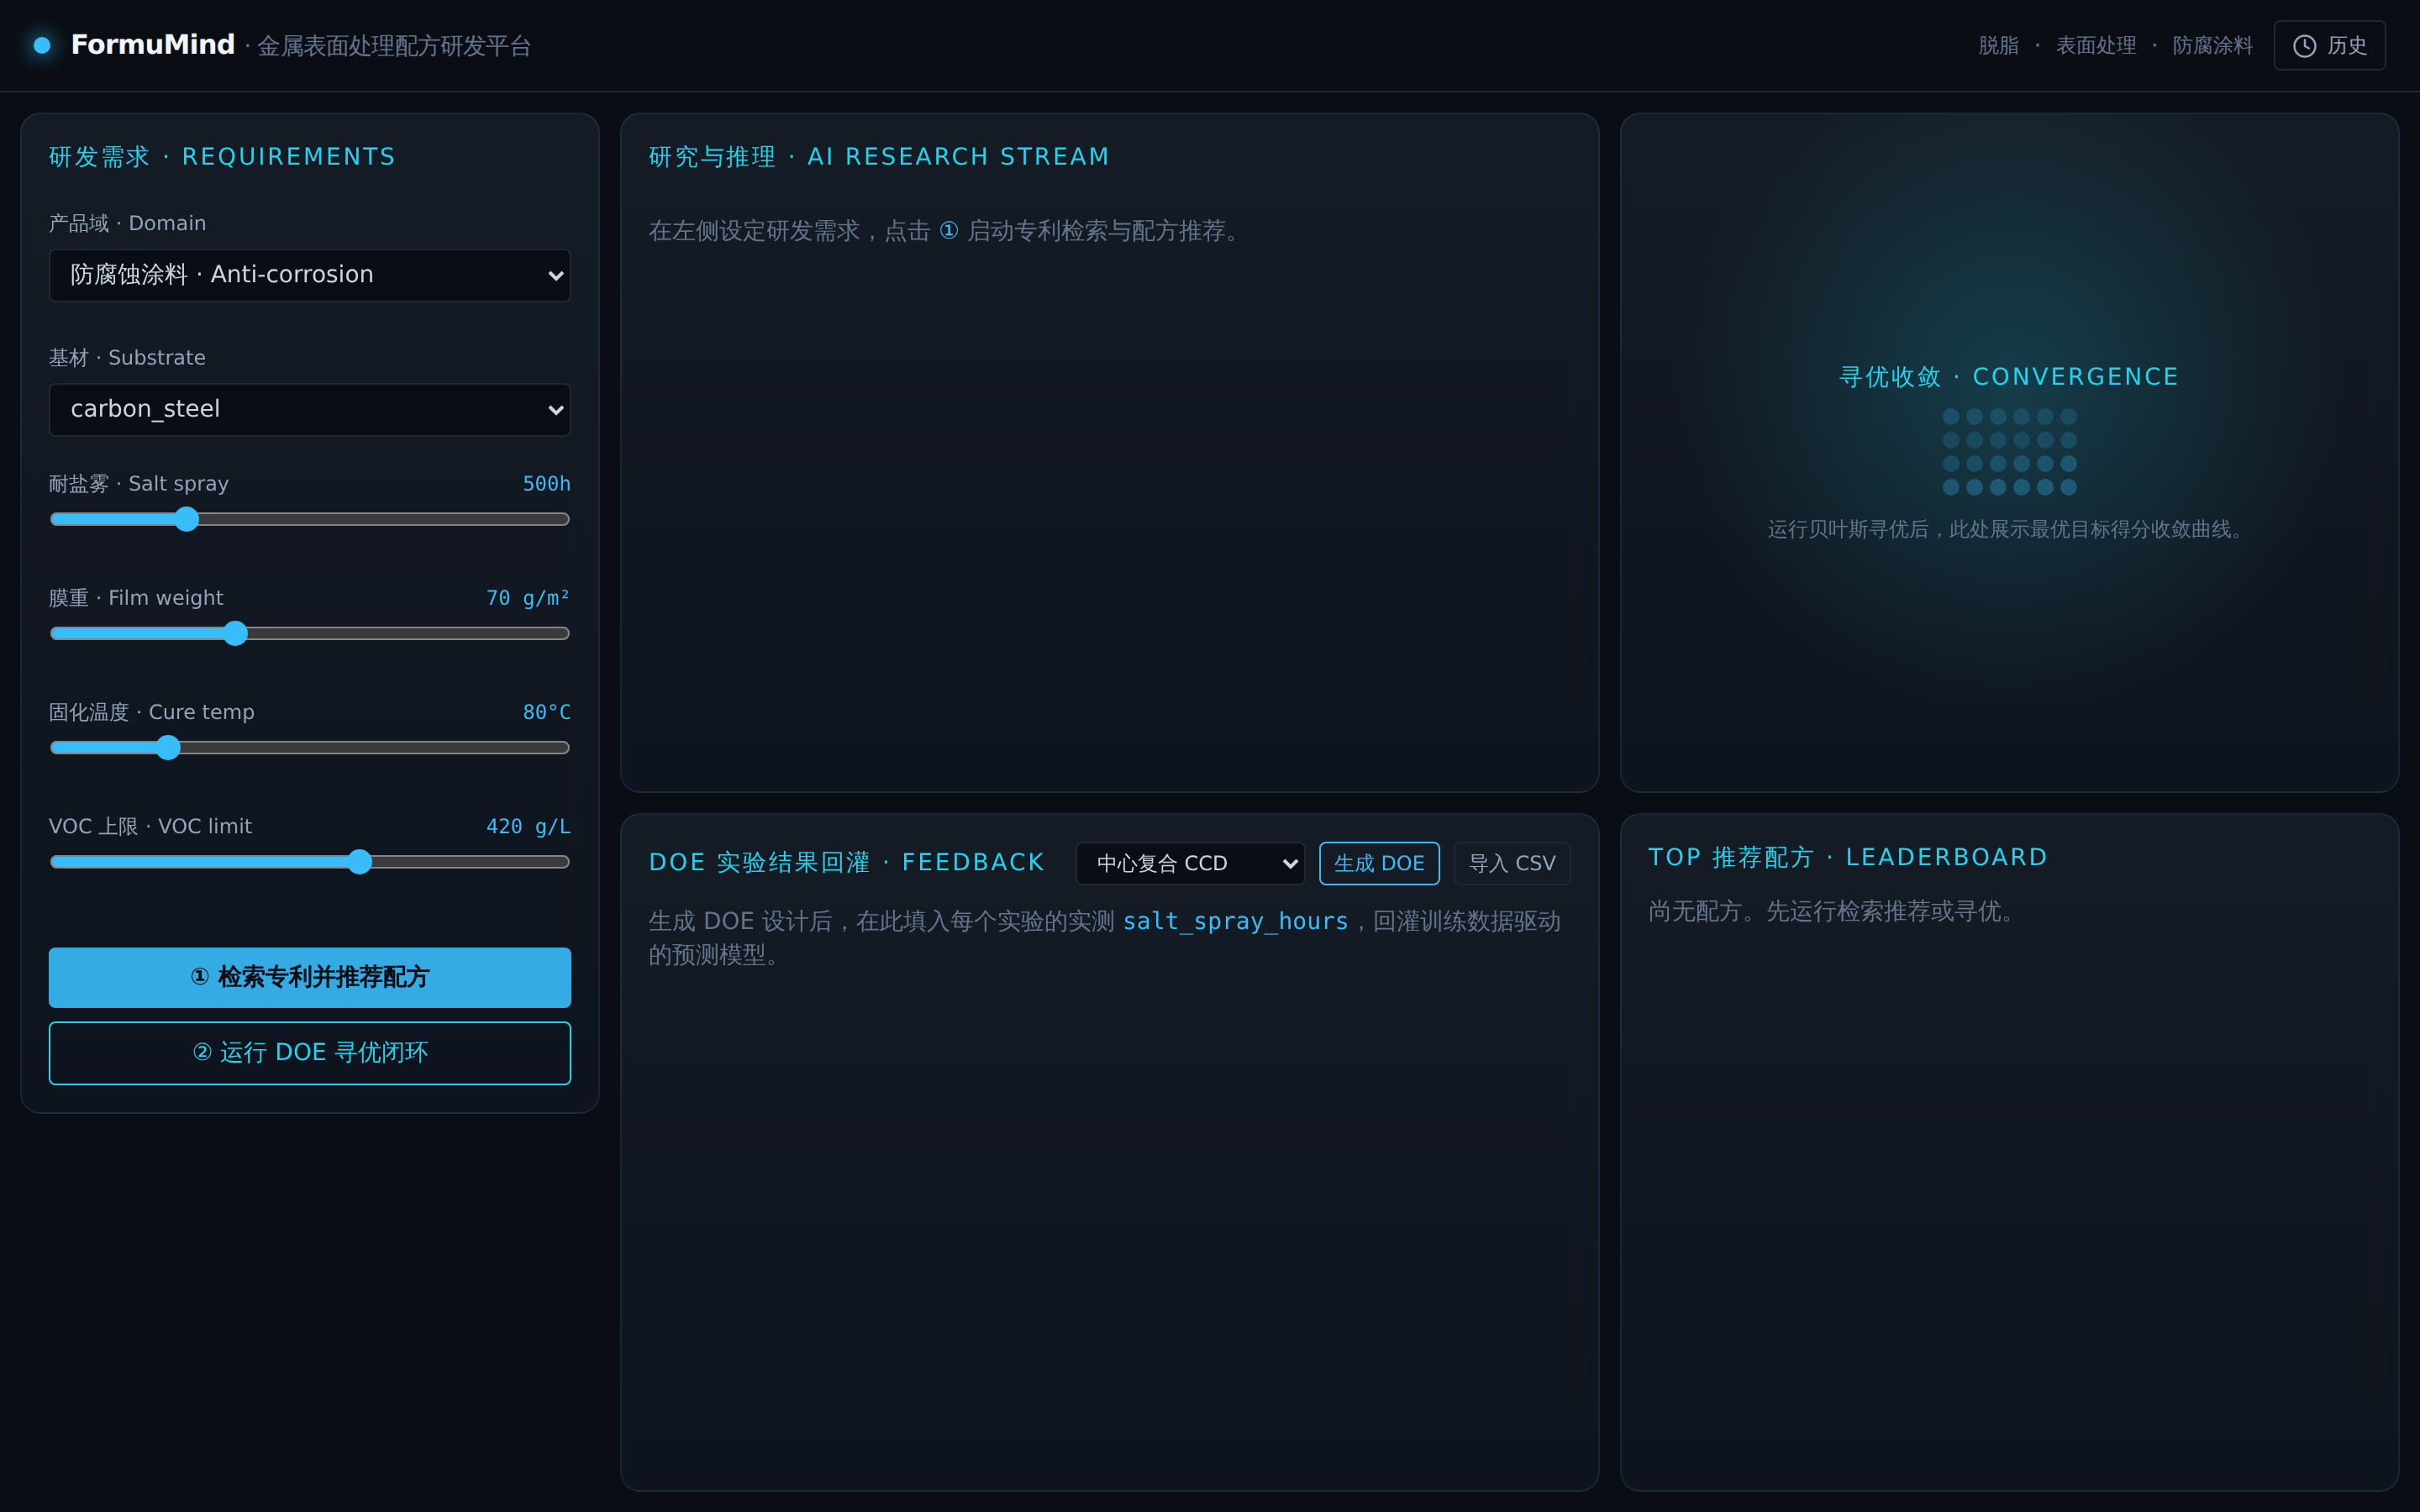
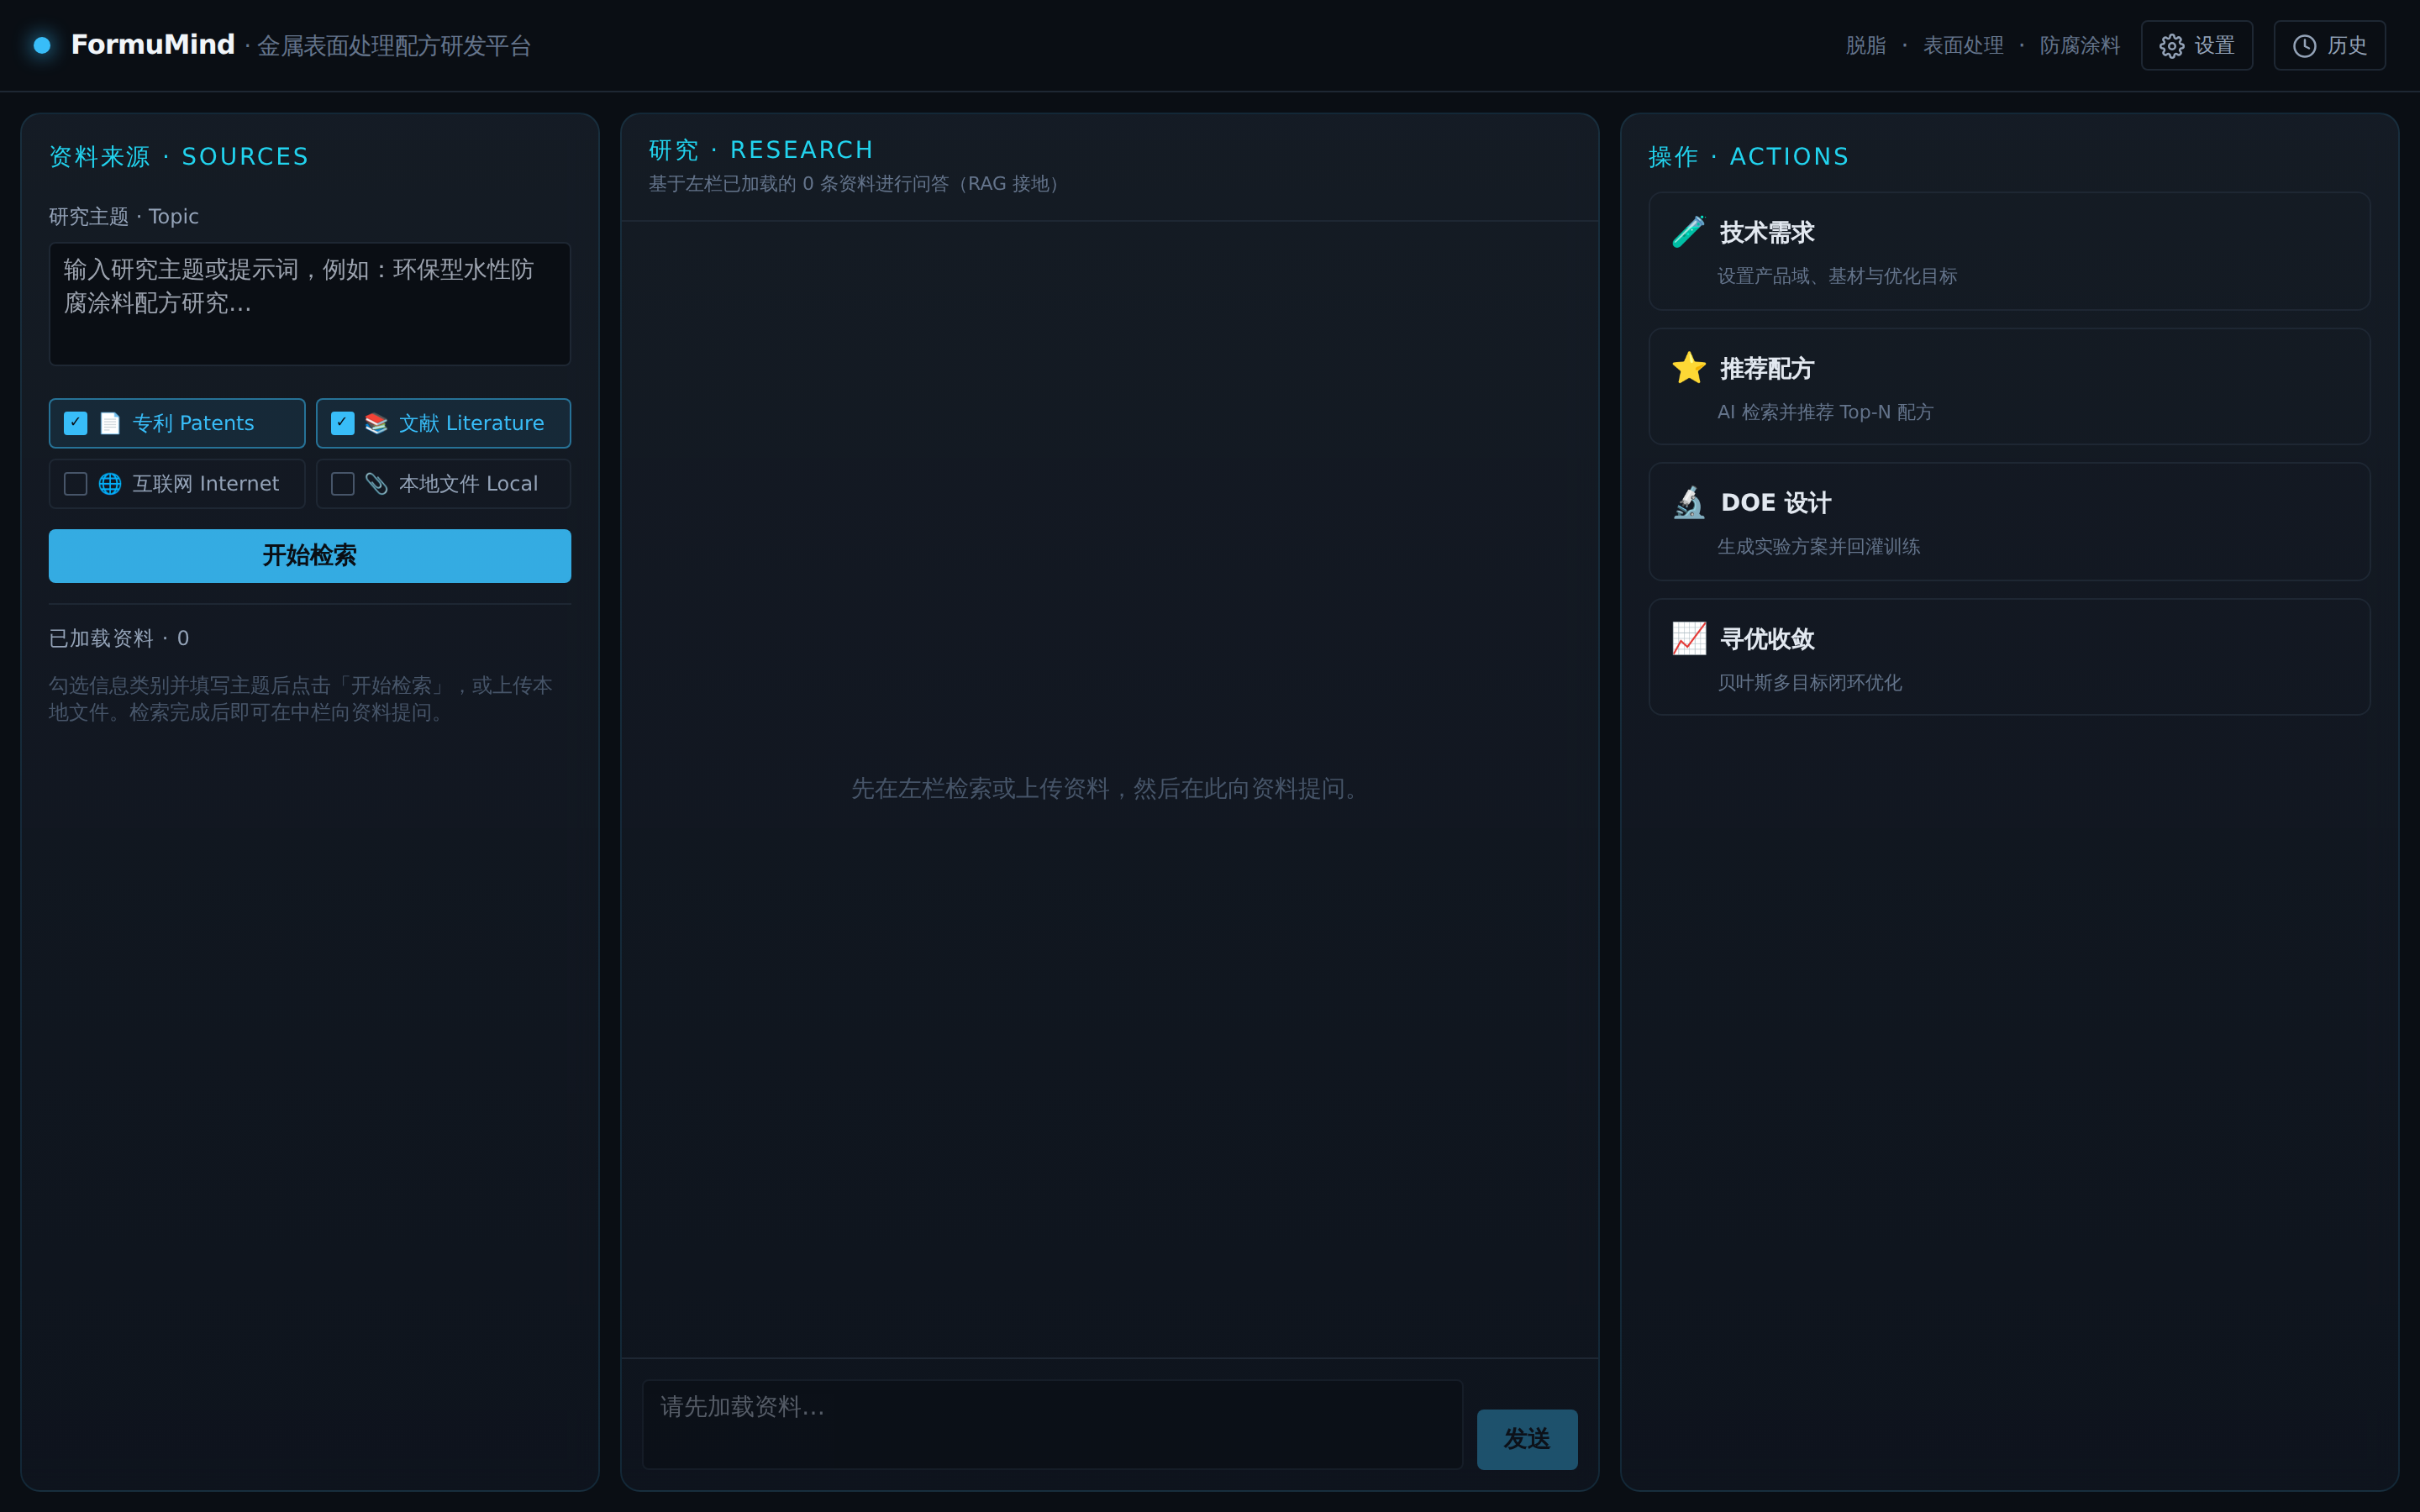
docs: update EN/CN quick-start for v0.3 with fresh screenshots
- Recapture the UI as 7 screenshots of the v0.3 NotebookLM layout: overview,
  source search, grounded Q&A, multi-LLM settings, recommend leaderboard,
  DOE design table, optimization convergence
- Rewrite QUICKSTART.md and 快速入门.md (kept as mirrors, cross-linked) around
  the new sources → research → actions flow
- Remove the stale v0.2 screenshots

https://claude.ai/code/session_01UU7xK54833WZZhCQ2RY8mj

diff --git a/docs/QUICKSTART.md b/docs/QUICKSTART.md
@@ -26,61 +26,82 @@ offline.
 
 ## Step 0 · Overview
 
-A dark, industrial three-column layout: requirements on the left, research & DOE
-in the center, convergence chart & leaderboard on the right.
+FormuMind v0.3 uses a NotebookLM-style three-pane layout that separates
+**inputs → research → outputs**: **Sources** on the left, **Research** Q&A in
+the center, and the **Actions** toolbar on the right. The header holds
+**⚙ Settings** (LLM provider) and **🕐 History**.
 
 ![Overview](./images/01-overview.png)
 
-- **Left**: pick a product domain / substrate, set target metrics with sliders
-  (salt-spray, film weight, cure temperature, VOC limit).
-- **Center**: AI research stream (top) and DOE feedback (bottom).
-- **Right**: convergence chart (placeholder until you optimize) and the Top-N
-  leaderboard.
+- **Left (Sources)**: research-topic prompt box, source-type checkboxes
+  (patents / literature / internet / local files), file upload, a **Search**
+  button, and the loaded-sources list.
+- **Center (Research)**: chat that answers questions grounded in the loaded
+  sources, with citations.
+- **Right (Actions)**: four buttons — 🧪 Requirements, ⭐ Recommend,
+  🔬 DOE Design, 📈 Optimization — each opening a focused modal.
 
 ---
 
-## Step 1 · Research patents & recommend formulations
+## Step 1 · Load sources
 
-After setting the requirement, click **① research patents & recommend
-formulations** (bottom-left).
+Type a research topic (e.g. "low-VOC waterborne anti-corrosion coating"), tick
+the source types to search (patents / literature / internet), and click
+**Search**. You can also upload local files (PDF/DOCX/XLSX/PPTX/HTML/images),
+parsed via markitdown.
 
-![Research](./images/02-research.png)
+![Search & sources](./images/02-search.png)
 
-The platform:
-- retrieves patent/literature evidence (center "Research Stream", click ▼ to
-  expand snippets, sorted by relevance);
-- shows a reaction-mechanism summary (highlighted blue paragraph);
-- produces 3 recommended formulations in the right-hand leaderboard — each card
-  shows the ingredient table and predicted metrics, including the
-  auto-computed `cost_cny_per_kg`, `voc_gpl`, and `sustainability_idx`.
-
----
-
-## Step 2 · Run the DOE optimization loop
-
-Click **② run DOE optimization loop** to start Bayesian multi-objective
-optimization (24 iterations by default).
-
-![Optimize](./images/03-optimize.png)
-
-- A **convergence line chart** appears top-right: X = iteration, Y = best
-  objective score, hover for exact values.
-- The leaderboard updates to the **Top-5 optimized formulations** (cards named
-  `Optimized …` with a score).
-- Optimization balances salt-spray, cost and sustainability simultaneously
-  (weighted multi-objective aggregation; default weights in the user guide).
+Results from every selected source are merged, de-duplicated, ranked by
+relevance, and listed in the left column (each removable). Offline, patent
+search returns the curated seed corpus; literature/internet search need the
+optional `intel` libraries.
 
 ---
 
-## Step 3 · Generate a DOE and feed measured results back
+## Step 2 · Ask the sources (grounded Q&A)
 
-In the "DOE Feedback" area, choose a design (e.g. **central composite CCD**) and
-click **Generate DOE**.
+In the center column, ask a question about the loaded sources — e.g. "What is
+the main corrosion-protection mechanism in these patents?". The answer is
+**grounded in the evidence** (TF-IDF re-rank → LLM) and shows citation chips
+linking back to the sources used.
 
-![DOE table](./images/04-doe.png)
+![Research Q&A](./images/03-research.png)
 
-You get a run table — one row per experiment, natural factor values plus a blank
-"measured" column. Two feedback paths:
+---
+
+## Step 3 · Choose your LLM (Settings)
+
+Click **⚙ Settings** in the header. FormuMind supports **nine providers** —
+Claude, OpenAI, Gemini, Grok, Meta (via Groq), DeepSeek, Qwen, Kimi, MiniMax.
+Pick a provider and model, paste an API key, optionally set a custom base URL,
+then **Save & test connection**. With no key, everything still runs via the
+offline rule engine.
+
+![Settings · multi-LLM](./images/04-settings.png)
+
+---
+
+## Step 4 · Recommend formulations
+
+Open **⭐ Recommend** (right column) and click **research patents & recommend
+formulations**. The Top-N leaderboard appears — each card shows the ingredient
+table and predicted metrics, including the auto-computed `cost_cny_per_kg`,
+`voc_gpl`, and `sustainability_idx` (with ± uncertainty).
+
+![Recommend · leaderboard](./images/05-recommend.png)
+
+---
+
+## Step 5 · Generate a DOE and feed results back
+
+Open **🔬 DOE Design**, choose a design (e.g. **central composite CCD**) and
+click **Generate DOE**. You get a run table — one row per experiment, natural
+factor values plus a blank "measured" column.
+
+![DOE design](./images/06-doe.png)
+
+Two feedback paths:
 
 1. **Manual**: type lab-measured values into the "measured" column, then click
    **③ feed back results and train model**.
@@ -93,24 +114,26 @@ recommendations/optimization switch to the "empirical + measured" blend.
 
 ---
 
-## Step 4 · Review and restore session history
+## Step 6 · Run the optimization loop
 
-After every successful research / optimize / feedback run, a session snapshot is
-saved automatically. Click the **🕐 History** button in the header.
+Open **📈 Optimization** and click **run optimization loop** to start Bayesian
+multi-objective optimization (24 iterations by default). The **convergence
+chart** plots the best-so-far objective score per iteration; hover for exact
+values. The leaderboard updates to the optimized Top-5 formulations, balancing
+salt-spray, cost and sustainability simultaneously.
 
-![History](./images/05-history.png)
+![Optimization · convergence](./images/07-optimize.png)
 
-- The right drawer lists the last 20 sessions with domain, time, Top-1 formula
-  name and score.
-- Click any entry to **restore** that session's requirement and leaderboard.
-- History lives in browser localStorage and survives a page refresh.
+> Every successful research / recommend / optimize / feedback run is saved as a
+> session snapshot — open **🕐 History** in the header to review and restore the
+> last 20 sessions (stored in browser localStorage).
 
 ---
 
 ## Next steps
 
-- Custom objective weights, batch feedback, wiring up the real engines? See the
-  **[full User Guide](./USER_GUIDE.md)**.
+- Custom objective weights, batch feedback, multi-LLM configuration, wiring up
+  the real engines? See the **[full User Guide](./USER_GUIDE.md)**.
 - Interactive API docs: start the backend and visit
   **http://localhost:8000/docs**.
 

diff --git a/docs/快速入门.md b/docs/快速入门.md
@@ -25,71 +25,78 @@ npm run dev                        # http://localhost:5173
 
 ## 第 0 步 · 界面总览
 
-打开后是暗黑工业风三栏布局：左栏填需求，中栏看研究与 DOE，右栏看收敛曲线与配方排行。
+FormuMind v0.3 采用仿 NotebookLM 的三栏布局，将**输入 → 研究 → 输出**分离：左栏是**资料来源**，中栏是**研究**问答，右栏是**操作**工具栏。标题栏含 **⚙ 设置**（大模型供应商）与 **🕐 历史**。
 
 ![总览](./images/01-overview.png)
 
-- **左栏**：选择产品域 / 基材，拖动滑块设定目标指标（耐盐雾、膜重、固化温度、VOC 上限）。
-- **中栏**：上方 AI 研究流，下方 DOE 实验回灌。
-- **右栏**：上方寻优收敛图（未运行时为占位动画），下方 Top-N 配方排行。
+- **左栏（资料来源）**：研究主题提示词框、来源类型复选框（专利 / 文献 / 互联网 / 本地文件）、文件上传、**开始检索**按钮，以及已加载资料列表。
+- **中栏（研究）**：基于已加载资料的接地问答对话，附引用标注。
+- **右栏（操作）**：四个按钮 —— 🧪 技术需求、⭐ 推荐配方、🔬 DOE 设计、📈 寻优收敛 —— 各自弹出聚焦窗口。
 
 ---
 
-## 第 1 步 · 检索专利并推荐配方
+## 第 1 步 · 加载资料
 
-设好需求后，点击左下角 **① 检索专利并推荐配方**。
+输入研究主题（如"低 VOC 水性防腐蚀涂料"），勾选要检索的来源类型（专利 / 文献 / 互联网），点击**开始检索**。也可上传本地文件（PDF/DOCX/XLSX/PPTX/HTML/图片），经 markitdown 解析。
 
-![研究推荐](./images/02-research.png)
+![检索与资料](./images/02-search.png)
 
-平台会：
-- 检索该产品域的专利/文献证据（中栏「研究与推理」区，可点 ▼ 展开摘录，按相关度排序）；
-- 给出反应机理说明（蓝色高亮段）；
-- 在右栏排行榜产出 3 个推荐配方，每个配方卡显示成分表与预测指标 —— 注意已自动算出 `cost_cny_per_kg`（成本）、`voc_gpl`（VOC）、`sustainability_idx`（可持续性指数）。
+所有勾选来源的结果会被合并、去重、按相关度排序，列于左栏（每条可删除）。离线时专利检索返回精选种子语料；文献 / 互联网检索需安装可选的 `intel` 依赖。
 
 ---
 
-## 第 2 步 · 运行 DOE 寻优闭环
+## 第 2 步 · 向资料提问（接地问答）
 
-点击 **② 运行 DOE 寻优闭环**，启动贝叶斯多目标寻优（默认 24 次迭代）。
+在中栏向已加载资料提问 —— 例如"这些专利中防腐蚀的主要机理是什么？"。回答**基于证据接地生成**（TF-IDF 重排 → LLM），并以引用标签链接回所用来源。
 
-![寻优收敛](./images/03-optimize.png)
-
-- 右栏上方出现**收敛折线图**：X 轴为迭代次数，Y 轴为最优目标得分，悬停可看精确数值。
-- 排行榜更新为 **Top-5 寻优配方**（卡片名带 `Optimized …` 与得分）。
-- 寻优同时平衡耐盐雾、成本与可持续性（加权多目标聚合，默认权重见使用指南）。
+![研究问答](./images/03-research.png)
 
 ---
 
-## 第 3 步 · 生成 DOE 并回灌实测结果
+## 第 3 步 · 选择大模型（设置）
 
-在中栏「DOE 实验结果回灌」区选择设计类型（如**中心复合 CCD**），点击 **生成 DOE**。
+点击标题栏 **⚙ 设置**。FormuMind 支持**九家供应商** —— Claude、OpenAI、Gemini、Grok、Meta（经 Groq）、DeepSeek、Qwen、Kimi、MiniMax。选择供应商与模型、粘贴 API Key、按需填写自定义 base URL，再点**保存并测试连接**。未配置 Key 时，全部功能仍通过离线规则引擎运行。
 
-![DOE 实验表](./images/04-doe.png)
-
-得到一张实验记录表，每行一个实验，列出各因子的自然值 + 一列空白「实测」。两种回灌方式：
-
-1. **手动**：在「实测」列直接填入实验室测得的指标值，点击 **③ 回灌实验结果并训练模型**。
-2. **批量**：点 **导出 CSV** 把表发给实验室 → 填好后点 **导入 CSV** 上传。
-
-当某指标累积样本 ≥ 4 时，平台自动训练数据驱动模型，模型质量仪表盘会显示 R² 半圆仪表 + RMSE，之后的推荐与寻优会切换为「经验 + 实测」混合预测。
+![设置 · 多大模型](./images/04-settings.png)
 
 ---
 
-## 第 4 步 · 查看与恢复历史会话
+## 第 4 步 · 推荐配方
 
-每次研究 / 寻优 / 回灌成功后，平台自动保存一份会话快照。点击标题栏右侧 **🕐 历史**。
+打开右栏 **⭐ 推荐配方**，点击**检索专利并推荐配方**。Top-N 排行榜随即出现 —— 每个配方卡显示成分表与预测指标，包含自动算出的 `cost_cny_per_kg`（成本）、`voc_gpl`（VOC）、`sustainability_idx`（可持续性指数，带 ± 不确定度）。
 
-![历史会话](./images/05-history.png)
+![推荐配方 · 排行榜](./images/05-recommend.png)
 
-- 右侧抽屉列出最近 20 次会话，显示产品域、时间、Top-1 配方名与得分。
-- 点击任意一条即可**一键恢复**该会话的需求与排行榜。
-- 历史存于浏览器 localStorage，刷新不丢失。
+---
+
+## 第 5 步 · 生成 DOE 并回灌实测结果
+
+打开 **🔬 DOE 设计**，选择设计类型（如**中心复合 CCD**），点击**生成 DOE**。得到一张实验记录表，每行一个实验，列出各因子的自然值 + 一列空白"实测"。
+
+![DOE 设计](./images/06-doe.png)
+
+两种回灌方式：
+
+1. **手动**：在"实测"列直接填入实验室测得的指标值，点击 **③ 回灌实验结果并训练模型**。
+2. **批量**：点**导出 CSV** 把表发给实验室 → 填好后点**导入 CSV** 上传。
+
+当某指标累积样本 ≥ 4 时，平台自动训练数据驱动模型，模型质量仪表盘会显示 R² 半圆仪表 + RMSE，之后的推荐与寻优会切换为"经验 + 实测"混合预测。
+
+---
+
+## 第 6 步 · 运行寻优闭环
+
+打开 **📈 寻优收敛**，点击**运行 DOE 寻优闭环**，启动贝叶斯多目标寻优（默认 24 次迭代）。**收敛折线图**绘制每次迭代的最优目标得分（best-so-far），悬停可看精确数值。排行榜更新为寻优后的 Top-5 配方，同时平衡耐盐雾、成本与可持续性。
+
+![寻优 · 收敛](./images/07-optimize.png)
+
+> 每次研究 / 推荐 / 寻优 / 回灌成功后，平台自动保存一份会话快照 —— 点击标题栏 **🕐 历史** 可查看并恢复最近 20 次会话（存于浏览器 localStorage）。
 
 ---
 
 ## 下一步
 
-- 想自定义多目标权重、批量回灌、对接真实引擎？见 **[完整使用指南](./使用指南.md)**。
+- 想自定义多目标权重、批量回灌、配置多大模型、对接真实引擎？见 **[完整使用指南](./使用指南.md)**。
 - 交互式 API 文档：后端启动后访问 **http://localhost:8000/docs**。
 
 > 离线产出的性能数值为工程合理的筛选估算值，非实验室验证规格。通过 DOE 回灌真实数据，预测会越来越准。